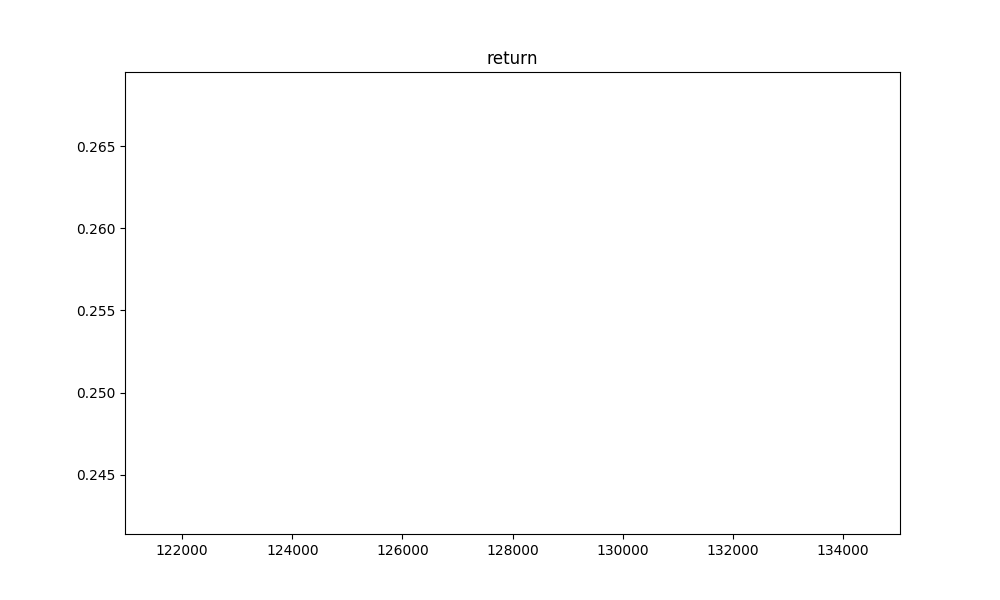
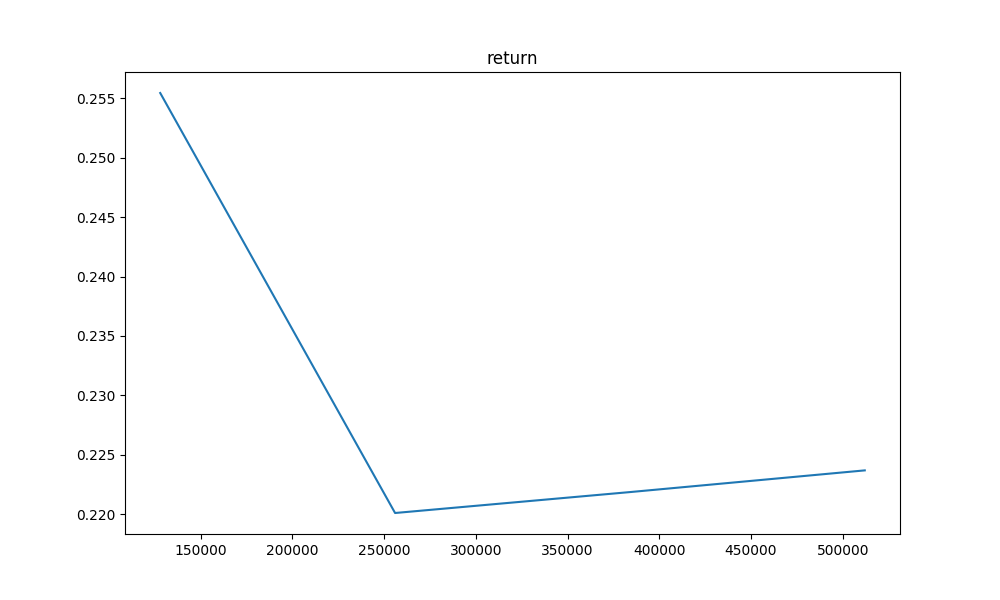
Added the capability to choose an action from a Normal Distribution

diff --git a/experiments/ars_multi_entropy.py b/experiments/ars_multi_entropy.py
@@ -159,21 +159,25 @@ class Policy():
       new_pol = self.theta 
       new_pol = new_pol.dot(input)
       new_pol = np.reshape(new_pol, (int(new_pol.shape[0]/2), 2))
-      action = [np.random.normal(loc = new_pol[x,0], scale = abs(new_pol[x,1])) for x in range(new_pol.shape[0])]
-      action = np.clip(action, 1 ,-1)
+      new_pol[:, 0] = np.tanh(new_pol[:,0])
+      new_pol[:, 1] = 1/(1 + np.exp(-1 * new_pol[:,1]))
+      action = [np.random.normal(loc = new_pol[x,0], scale = np.clip(new_pol[x,1], 0, 1)) for x in range(new_pol.shape[0])]
     elif direction == "positive":
       new_pol = self.theta + hp.noise * delta
       new_pol = new_pol.dot(input)
       new_pol = np.reshape(new_pol, (int(new_pol.shape[0]/2), 2))
-      action = [np.random.normal(loc = new_pol[x,0], scale = abs(new_pol[x,1])) for x in range(new_pol.shape[0])]
-      action = np.clip(action, 1 ,-1)
+      new_pol[:, 0] = np.tanh(new_pol[:,0])
+      new_pol[:, 1] = 1/(1 + np.exp(-1 * new_pol[:,1]))
+      action = [np.random.normal(loc = new_pol[x,0], scale = np.clip(new_pol[x,1], 0, 1)) for x in range(new_pol.shape[0])]
 
     else:
       new_pol = self.theta - hp.noise * delta
       new_pol = new_pol.dot(input)
       new_pol = np.reshape(new_pol, (int(new_pol.shape[0]/2), 2))
-      action = [np.random.normal(loc = new_pol[x,0], scale = abs(new_pol[x,1])) for x in range(new_pol.shape[0])]
-      action = np.clip(action, 1 ,-1)
+      new_pol[:, 0] = np.tanh(new_pol[:,0])
+      new_pol[:, 1] = 1/(1 + np.exp(-1 * new_pol[:,1]))
+      action = [np.random.normal(loc = new_pol[x,0], scale = np.clip(new_pol[x,1],0,1)) for x in range(new_pol.shape[0])]
+    action = np.clip(action, 1, -1)
     return action
   def sample_deltas(self):
     return [np.random.randn(*self.theta.shape) for _ in range(hp.nb_directions)]
